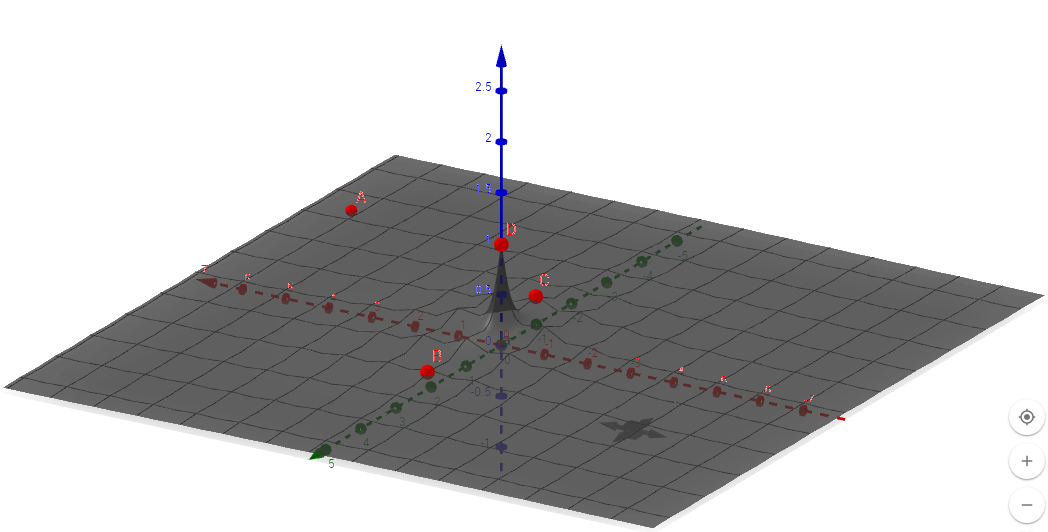
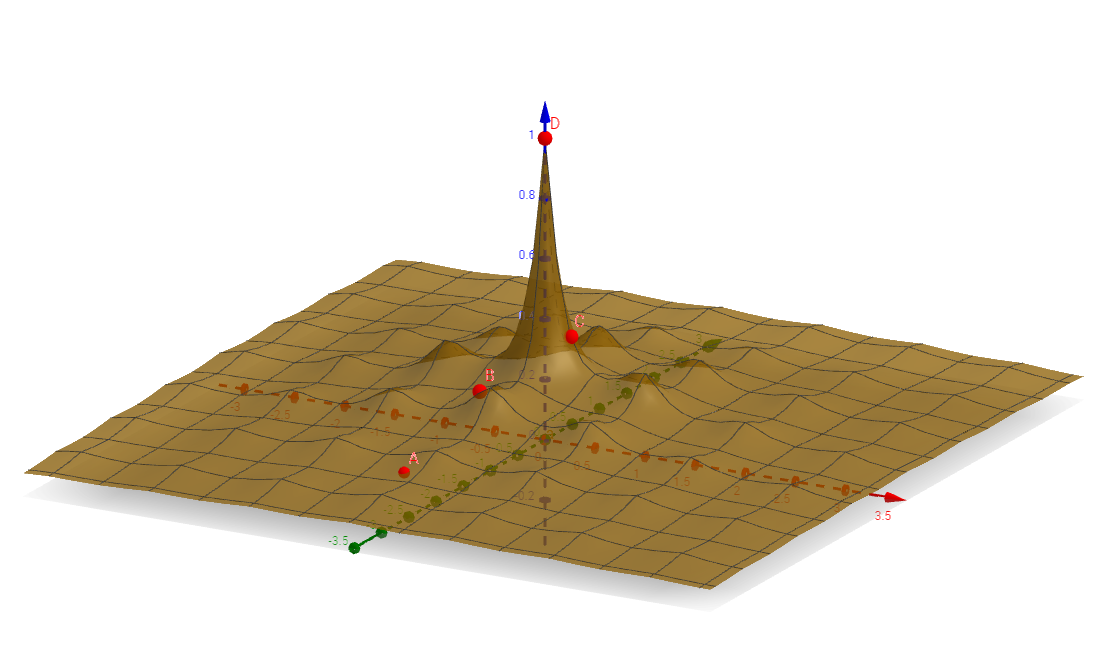
update README

diff --git a/modulo3/README.md b/modulo3/README.md
@@ -40,30 +40,39 @@ $ python maximizer.py
 
 A taxa de cruzamento foi mantida em 0.8 e a taxa de mutação em 0.01.
 
-* Ponto A:
+* **Ponto A:**
   - tamanho da população: 6
   - quantidade de gerações: 200
 
   **Resultado**: máximo local
 
-* Ponto B:
+  ![PointA](static/PointA.png)
+
+* **Ponto B:**
   - tamanho da população: 60
   - quantidade de gerações: 100
 
   **Resultado**: máximo local
 
-* Ponto C:
+  ![PointB](static/PointB.png)
+
+* **Ponto C:**
   - tamanho da população: 120
   - quantidade de gerações: 100
 
   **Resultado**: máximo local
 
-* Ponto D:
+  ![PointC](static/PointC.png)
+
+* **Ponto D:**
   - tamanho da população: 240
   - quantidade de gerações: 50
 
   **Resultado**: máximo global
 
+  ![PointD](static/PointD.png)
+
+### Plotagem da função com os pontos
 
 ![Resultados](static/results.png)
 
